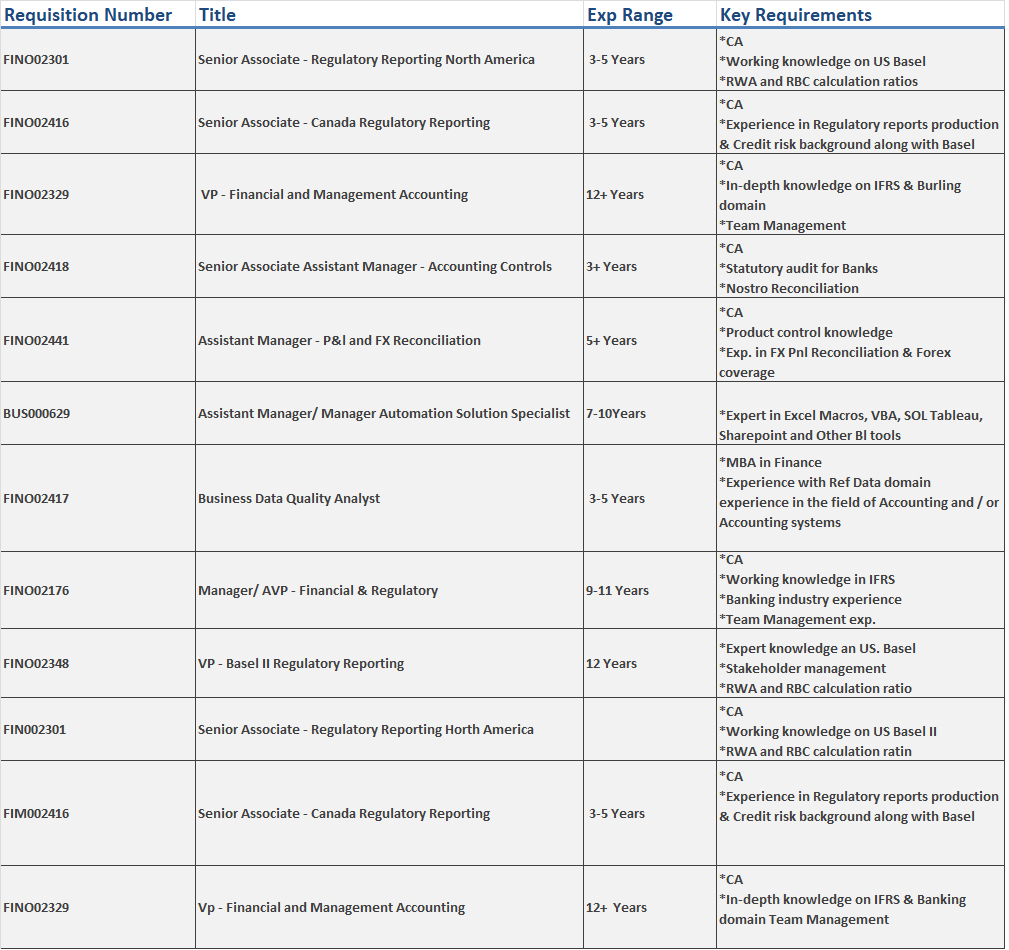
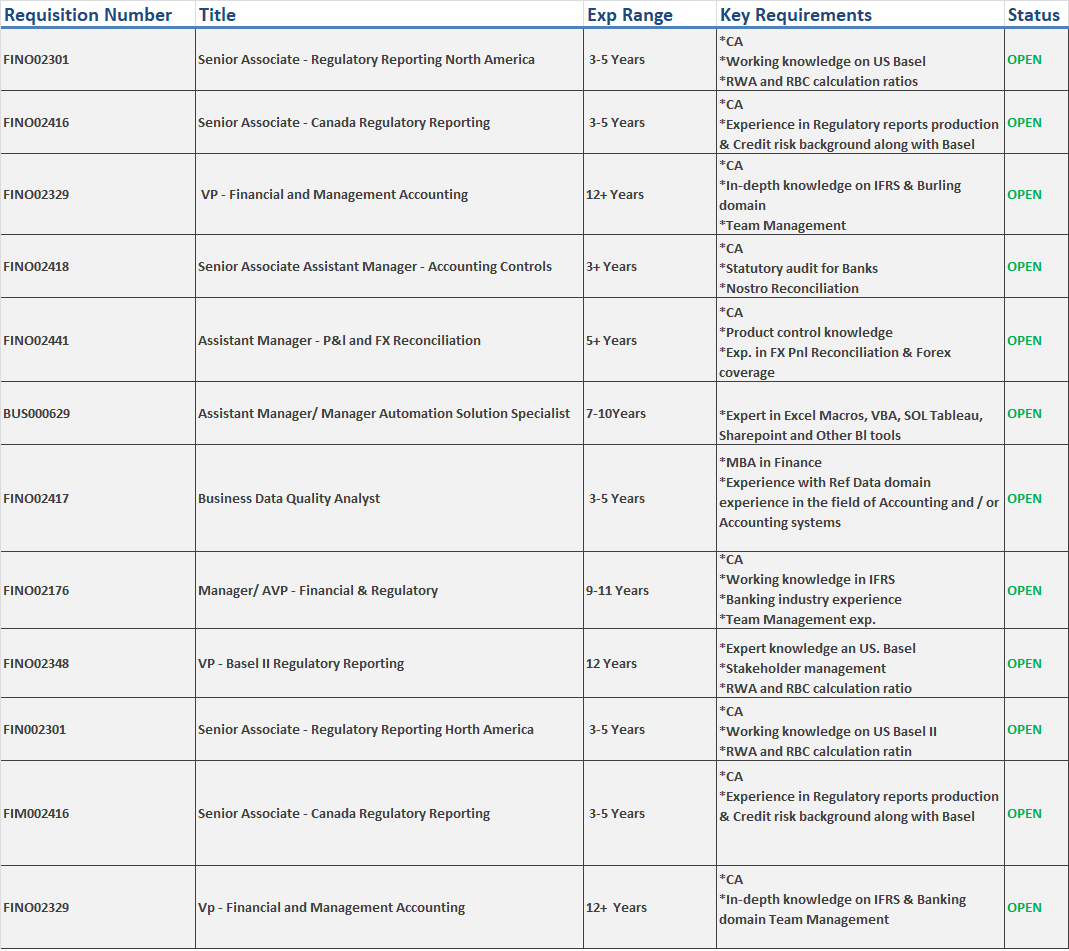
Portfolio Site

diff --git a/refer-at-bnp.html b/refer-at-bnp.html
@@ -94,6 +94,7 @@
                             <img src="img/bnp-paribas-hiring.jpg" alt="Hero Image" title="RBI">
                         </div>
                     </div>
+                    
                    
                 </div>
             </div>
@@ -117,8 +118,15 @@
 </style>
     <div class="ex1">
         <div >
+            <p> <b>Updated Positions</b></p>
+            <img class="ex1" src="img/Refer2.png" alt="BNP REFER Image" title="Refer At BNP">
+        </div> 
+<BR><BR>
+
+        <div >
             <img class="ex1" src="img/Refer.png" alt="BNP REFER Image" title="Refer At BNP">
         </div>
+
 
      <br>
 
